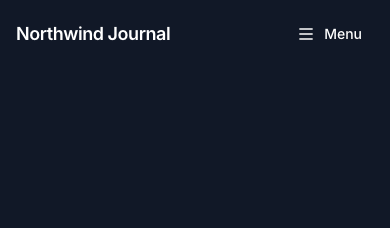
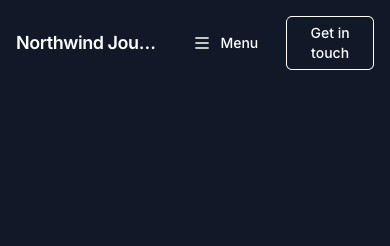
feat(astro-kit): header button on every screen width, and a strip row for the header's contact lines (GENERIC) (#668)

diff --git a/packages/types/src/project-plan.ts b/packages/types/src/project-plan.ts
@@ -218,7 +218,10 @@ export interface PlanSite {
    * `border: false` draws no line under the bar; `brandWeight` and `brandTracking` set the site name's weight and
    * letter-spacing; `offsetTop` is the space above the bar and `padTop`/`padBottom` the space inside it above and below
    * its content (CSS lengths, a fluid theme's as a `clamp()`). `search: true`: the source's header holds a search form;
-   * the bar shows a search field that sends to the starter's `/search/` page. A key absent: the starter's own.
+   * the bar shows a search field that sends to the starter's `/search/` page. `action`: the button the source's header
+   * prints outside its menu (a booking or contact link), on every screen width. `strip`: the lines the source's header
+   * prints next to its menu (a phone number, a mail address, the address, the hours), in a row above the bar that folds
+   * into the menu drawer on a phone; a line with an `href` is a link (`tel:`, `mailto:`, a page). A key absent: the starter's own.
    * `parts: true`: the header and footer are a block theme's template parts (Twenty Twenty-Five), sized by the theme's
    * presets (the footer's site title at the h2 size) the way a classic theme's are read off its render. Absent, a plan
    * with `chrome` is read as a classic theme's and one without as a block theme's (plans before 1.50).
@@ -242,7 +245,7 @@ export interface PlanSite {
     postFrame?: ChromeFrameStep[]
     listColumns?: ChromeColumnStep[]
     footerColumns?: { gap: number, size?: number, narrowGap?: number, narrowSize?: number }
-    header?: { border?: false, brandWeight?: string, brandTracking?: string, offsetTop?: string, padTop?: string, padBottom?: string, search?: true }
+    header?: { border?: false, brandWeight?: string, brandTracking?: string, offsetTop?: string, padTop?: string, padBottom?: string, search?: true, action?: { label: string, href: string }, strip?: { items: Array<{ label: string, href?: string }> } }
     breadcrumbs?: 'always'
     menu?: 'mega'
   }
@@ -551,6 +554,11 @@ export function footerMenusOf(site: Pick<PlanSite, 'menus'>): string[] {
 /** A letter-spacing the starter writes into a style: `normal`, or a signed length. */
 const LETTER_SPACING = /^(?:normal|-?\d+(?:\.\d+)?(?:px|rem|em))$/
 
+/** Words a header prints on a button or a line: a string with something to read, short enough for a bar. */
+const isLabel = (value: unknown): boolean => typeof value === 'string' && value.trim() !== '' && value.length <= 200
+/** An address a header links: http(s), `mailto:`, `tel:` or a path on the site. */
+const isHref = (value: unknown): boolean => typeof value === 'string' && /^(?:https?:\/\/\S|mailto:\S|tel:\S|\/(?!\/))/i.test(value)
+
 /** A font size the starter writes into a style: a length, or a `clamp()`/`calc()`/`min()`/`max()` of lengths (a theme's fluid size). */
 /** A colour that goes into a style attribute: hex, `rgb()`/`rgba()` or `hsl()`/`hsla()` of numbers; never a `;` or `url()`. */
 const CSS_COLOR = /^(?:#[0-9a-f]{3,8}|(?:rgb|hsl)a?\([\d\s.,%/deg]+\))$/i
@@ -771,6 +779,13 @@ export function validateProjectPlan(plan: ProjectPlan): ProjectPlanReport {
       if (header.brandTracking !== undefined && !LETTER_SPACING.test(header.brandTracking)) errors.push(`site.chrome.header.brandTracking ${header.brandTracking} is not a letter spacing`)
       for (const key of ['offsetTop', 'padTop', 'padBottom'] as const) {
         if (header[key] !== undefined && !CSS_LENGTH.test(header[key]!)) errors.push(`site.chrome.header.${key} ${header[key]} is not a CSS size`)
+      }
+      const { action, strip } = header
+      if (action !== undefined && (action === null || typeof action !== 'object' || !isLabel(action.label) || !isHref(action.href))) errors.push('site.chrome.header.action is not a label and an address')
+      if (strip !== undefined) {
+        const items = strip?.items
+        if (!Array.isArray(items) || items.length === 0 || items.length > 8) errors.push('site.chrome.header.strip.items is not a list of 1–8 lines')
+        else if (items.some(item => item === null || typeof item !== 'object' || !isLabel(item.label) || (item.href !== undefined && !isHref(item.href)))) errors.push('site.chrome.header.strip.items has a line that is not a label with an optional address')
       }
     }
   }

diff --git a/templates/astro-starter/src/site.config.ts b/templates/astro-starter/src/site.config.ts
@@ -168,13 +168,13 @@ export interface SiteConfig {
    * `titleLinks`: post titles in lists take the link colour (`--color-link`), as the source's do;
    * `navLinks`: so does the header navigation. `brandColor`: the header site title's colour, `link` or a colour. `footerAlign`: `center` when the source's footer is
    * one centred column; absent, brand and links to the sides. `footerColumns`: the link columns packed at the end edge, `gap` px apart, links `size` px (`narrowSize` px below 768), side by side below 768 at `narrowGap` px (absent: stacked); absent, they share the footer's width.
-   * `header`: what the source's header does differently (no line under the bar, the site name's weight and letter-spacing, the space above and inside the bar); a key absent: the starter's own.
+   * `header`: what the source's header does differently (no line under the bar, the site name's weight and letter-spacing, the space above and inside the bar, its button, the lines next to its menu); a key absent: the starter's own.
    * `breadcrumbs: 'always'`: the source prints a breadcrumb on top-level pages too, from the home page: they show
    * home › page with its BreadcrumbList, and a nested page's trail starts from home. Absent, only nested pages show one.
    * `menu: 'mega'`: the header menu's submenus open as a wide panel of columns (the second level heads each column, the
    * third is listed under it) instead of a list under the item. Absent, the flyout.
    */
-  chrome?: { brand?: string, tagline?: boolean, copyright?: string, titleLinks?: boolean, navLinks?: boolean, brandColor?: string, footerAlign?: 'start' | 'center', footerColumns?: { gap: number, size?: number, narrowGap?: number, narrowSize?: number }, header?: { border?: false, brandWeight?: string, brandTracking?: string, offsetTop?: string, padTop?: string, padBottom?: string, /** The source header stays at the top while scrolling (a sticky or fixed header). */ sticky?: true, /** The source header holds a search form: the bar's field sends to `/search/`. */ search?: true }, breadcrumbs?: 'always', menu?: 'mega' }
+  chrome?: { brand?: string, tagline?: boolean, copyright?: string, titleLinks?: boolean, navLinks?: boolean, brandColor?: string, footerAlign?: 'start' | 'center', footerColumns?: { gap: number, size?: number, narrowGap?: number, narrowSize?: number }, header?: { border?: false, brandWeight?: string, brandTracking?: string, offsetTop?: string, padTop?: string, padBottom?: string, /** The source header stays at the top while scrolling (a sticky or fixed header). */ sticky?: true, /** The source header holds a search form: the bar's field sends to `/search/`. */ search?: true, /** The source header's button, on every screen width. */ action?: { label: string, href: string }, /** The lines next to the source header's menu (phone, mail, address, hours), above the bar; in the drawer on a phone. */ strip?: { items: Array<{ label: string, href?: string }> } }, breadcrumbs?: 'always', menu?: 'mega' }
   /**
    * The site singleton's fields that hold the contact details, by field name (a migration finds them
    * in the source's settings: an ACF options page). The footer prints what is set: `address`,

diff --git a/.changeset/header-action-strip.md b/.changeset/header-action-strip.md
@@ -1,0 +1,6 @@
+---
+"@contentrain/types": minor
+"@contentrain/astro-kit": minor
+---
+
+Header: the button shows on every screen width, and a new `strip` prop prints a row above the bar for the lines a site's header shows next to its menu (phone, mail, address, hours); on a phone the row folds into the menu drawer. Nav takes `extra` lines after the menu in its narrow-screen menu. Project plans carry them as `site.chrome.header.action` and `site.chrome.header.strip`.
